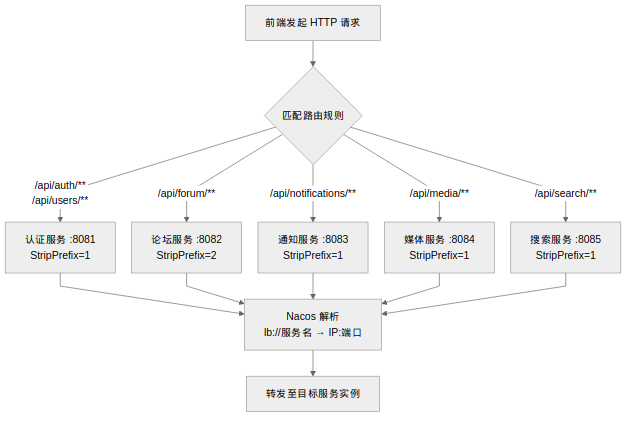
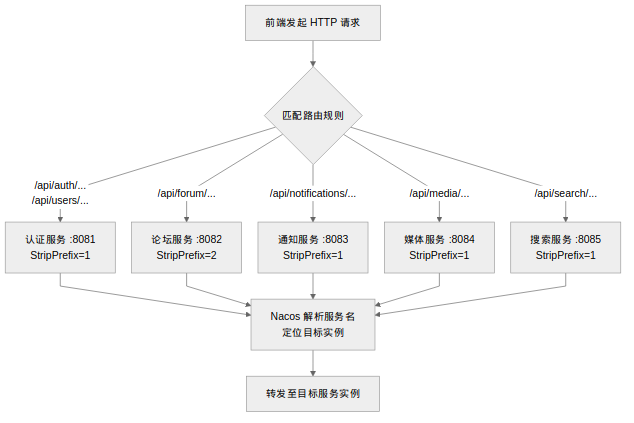
docs: 4.1 去除Nacos注册虚线简化部署图, 路径通配符改为省略号

diff --git a/docs/第四章 系统详细设计与实现.md b/docs/第四章 系统详细设计与实现.md
@@ -6,7 +6,7 @@
 
 图 4-1 系统部署图
 
-各层之间的通信关系如下。PC 端和移动端通过 HTTP 协议向网关的 8080 端口发送请求。网关根据配置文件中定义的六条路由规则，按请求路径前缀将请求分发至对应的后端服务。具体路由映射关系为：`/api/auth/**` 和 `/api/users/**` 路由至认证服务，`/api/forum/**` 路由至论坛服务，`/api/notifications/**` 路由至通知服务，`/api/media/**` 路由至媒体服务，`/api/search/**` 路由至搜索服务。各路由均配置了 StripPrefix 过滤器，在转发前去除 URL 中的网关前缀层级，使下游服务接收到的请求路径与其自身的 Controller 映射一致。路由目标地址采用 `lb://服务名` 格式，由 Nacos 注册中心解析服务名到实际的 IP 和端口，实现基于服务发现的负载均衡。网关路由转发流程如图 4-2 所示。
+各层之间的通信关系如下。PC 端和移动端通过 HTTP 协议向网关的 8080 端口发送请求。网关根据配置文件中定义的六条路由规则，按请求路径前缀将请求分发至对应的后端服务。具体路由映射关系为：以 /api/auth/ 和 /api/users/ 开头的请求路由至认证服务，以 /api/forum/ 开头的请求路由至论坛服务，以 /api/notifications/ 开头的请求路由至通知服务，以 /api/media/ 开头的请求路由至媒体服务，以 /api/search/ 开头的请求路由至搜索服务。各路由均配置了 StripPrefix 过滤器，在转发前去除 URL 中的网关前缀层级，使下游服务接收到的请求路径与其自身的 Controller 映射一致。路由目标地址采用 `lb://服务名` 格式，由 Nacos 注册中心解析服务名到实际的 IP 和端口，实现基于服务发现的负载均衡。网关路由转发流程如图 4-2 所示。
 
 图 4-2 网关路由转发流程图
 
